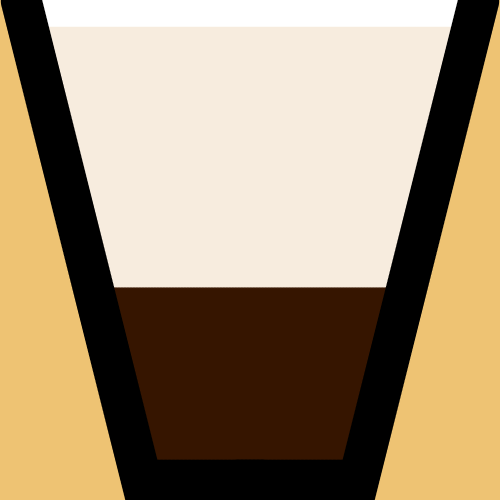
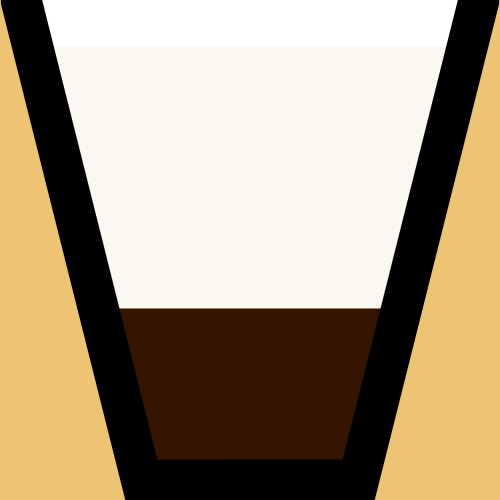
added preparing animation

Changed region(s): [[0.09, 0.03, 0.9, 0.12], [0.21, 0.57, 0.78, 0.63]]

diff --git a/PreparingPage.qml b/PreparingPage.qml
@@ -7,7 +7,7 @@ Rectangle {
     height: parent.height
 
     Rectangle {
-        id: topBar
+        id: backArrow
         color: "#CA965C"
         width: parent.width
         height: parent.height * 0.1
@@ -18,7 +18,10 @@ Rectangle {
             width: parent.height
             anchors.left: parent.left
             cursorShape: Qt.PointingHandCursor
-            onClicked: preparingPage.visible = false
+            onClicked: {
+                cover.height = cover.parent.height
+                preparingPage.visible = false
+            }
             Image {
                 width: parent.width * 0.7
                 height: parent.height * 0.7
@@ -29,4 +32,90 @@ Rectangle {
             }
         }
     }
+
+    //main rect
+    Rectangle {
+        id: preparingAnimation
+        color: "#EEC373"
+        width: parent.width
+        anchors.top: backArrow.bottom
+        anchors.bottom: preparingText.top
+
+        Rectangle {
+            color: "transparent"
+            width: parent.width * 0.8
+            height: parent.height * 0.8
+            anchors.horizontalCenter: parent.horizontalCenter
+            anchors.verticalCenter: parent.verticalCenter
+
+            Image {
+                id: selectedCoffeeImg
+                anchors.horizontalCenter: parent.horizontalCenter
+                anchors.verticalCenter: parent.verticalCenter
+                fillMode: Image.PreserveAspectFit
+                width: parent.width
+                height: parent.height
+                source: "qrc:/icons/latte.png"
+            }
+
+            Rectangle {
+                id: cover
+                color: "#EEC373"
+                anchors.top: parent.top
+                width: parent.width
+                height: parent.height
+
+
+                PropertyAnimation {
+                    id: animation
+                    target: cover
+                    duration: 6000
+                    properties: "height"; to: 0;
+                    alwaysRunToEnd: false
+
+                }
+
+                MouseArea {
+                    anchors.fill: parent;
+                    onClicked: animation.running = true
+                    cursorShape: Qt.PointingHandCursor
+                }
+            }
+
+            Image {
+                id: emptyCupImg
+                anchors.horizontalCenter: parent.horizontalCenter
+                anchors.verticalCenter: parent.verticalCenter
+                fillMode: Image.PreserveAspectFit
+                width: parent.width
+                height: parent.height
+                source: "qrc:/icons/empty_cup.png"
+            }
+
+        }
+
+    }
+
+    Rectangle {
+        id: preparingText
+        color: "#CA965C"
+        width: parent.width
+        height: parent.height * 0.2
+        anchors.bottom: parent.bottom
+
+
+        Text {
+            text: animation.stopped() ? "Preparing..." : "Ready!"
+            color: "black"//"#EEC373"
+            anchors.horizontalCenter: parent.horizontalCenter
+            anchors.verticalCenter: parent.verticalCenter
+            font.pointSize: parent.width * 0.1
+            font.bold: true
+
+        }
+
+
+    }
+
+
 }

diff --git a/SelectDrinkPage.qml b/SelectDrinkPage.qml
@@ -40,19 +40,10 @@ Rectangle {
             anchors.right: sugarIcon.left
             color: "transparent"
             Slider {
+                id: control
                 anchors.horizontalCenter: parent.horizontalCenter
                 anchors.verticalCenter: parent.verticalCenter
                 width: parent.width * 0.8
-
-                handle: Rectangle {
-                        x: control.leftPadding + control.visualPosition * (control.availableWidth - width)
-                        y: control.topPadding + control.availableHeight / 2 - height / 2
-                        implicitWidth: 26
-                        implicitHeight: 26
-                        radius: 13
-                        color: control.pressed ? "#f0f0f0" : "#f6f6f6"
-                        border.color: "#bdbebf"
-                    }
 
                 from: 0
                 to: 4
@@ -60,10 +51,38 @@ Rectangle {
                 value: 2
                 snapMode: Slider.SnapOnRelease
 
+                //styling
+                background: Rectangle {
+                        x: control.leftPadding
+                        y: control.topPadding + control.availableHeight / 2 - height / 2
+                        implicitWidth: 200
+                        //implicitHeight: 5
+                        width: control.availableWidth
+                        height: sugarSlider.height * 0.09
+                        radius: 2
+                        color: "black"
 
+                        Rectangle {
+                            width: control.visualPosition * parent.width
+                            height: parent.height
+                            color: "black"
+                            radius: 2
+                        }
+                    }
+
+                handle: Rectangle {
+                        x: control.leftPadding + control.visualPosition * (control.availableWidth - width)
+                        y: control.topPadding + control.availableHeight / 2 - height / 2
+                        width: sugarSlider.height * 0.3
+                        height: sugarSlider.height * 0.5
+                        radius: 3
+                        color: "black"
+                        border.color: "black"
+                    }
             }
         }
 
+        //right corner icon
         Rectangle {
             id: sugarIcon
             height: parent.height
@@ -106,8 +125,13 @@ Rectangle {
         }
 
         DrinkTypes {
-            src: "qrc:/icons/cappuccino.png"
+            src: "qrc:/icons/cappucino.png"
             name: "Cappuccino"
+        }
+
+        DrinkTypes {
+            src: "qrc:/icons/macchiato.png"
+            name: "Macchiato"
         }
 
     } //swipeView
